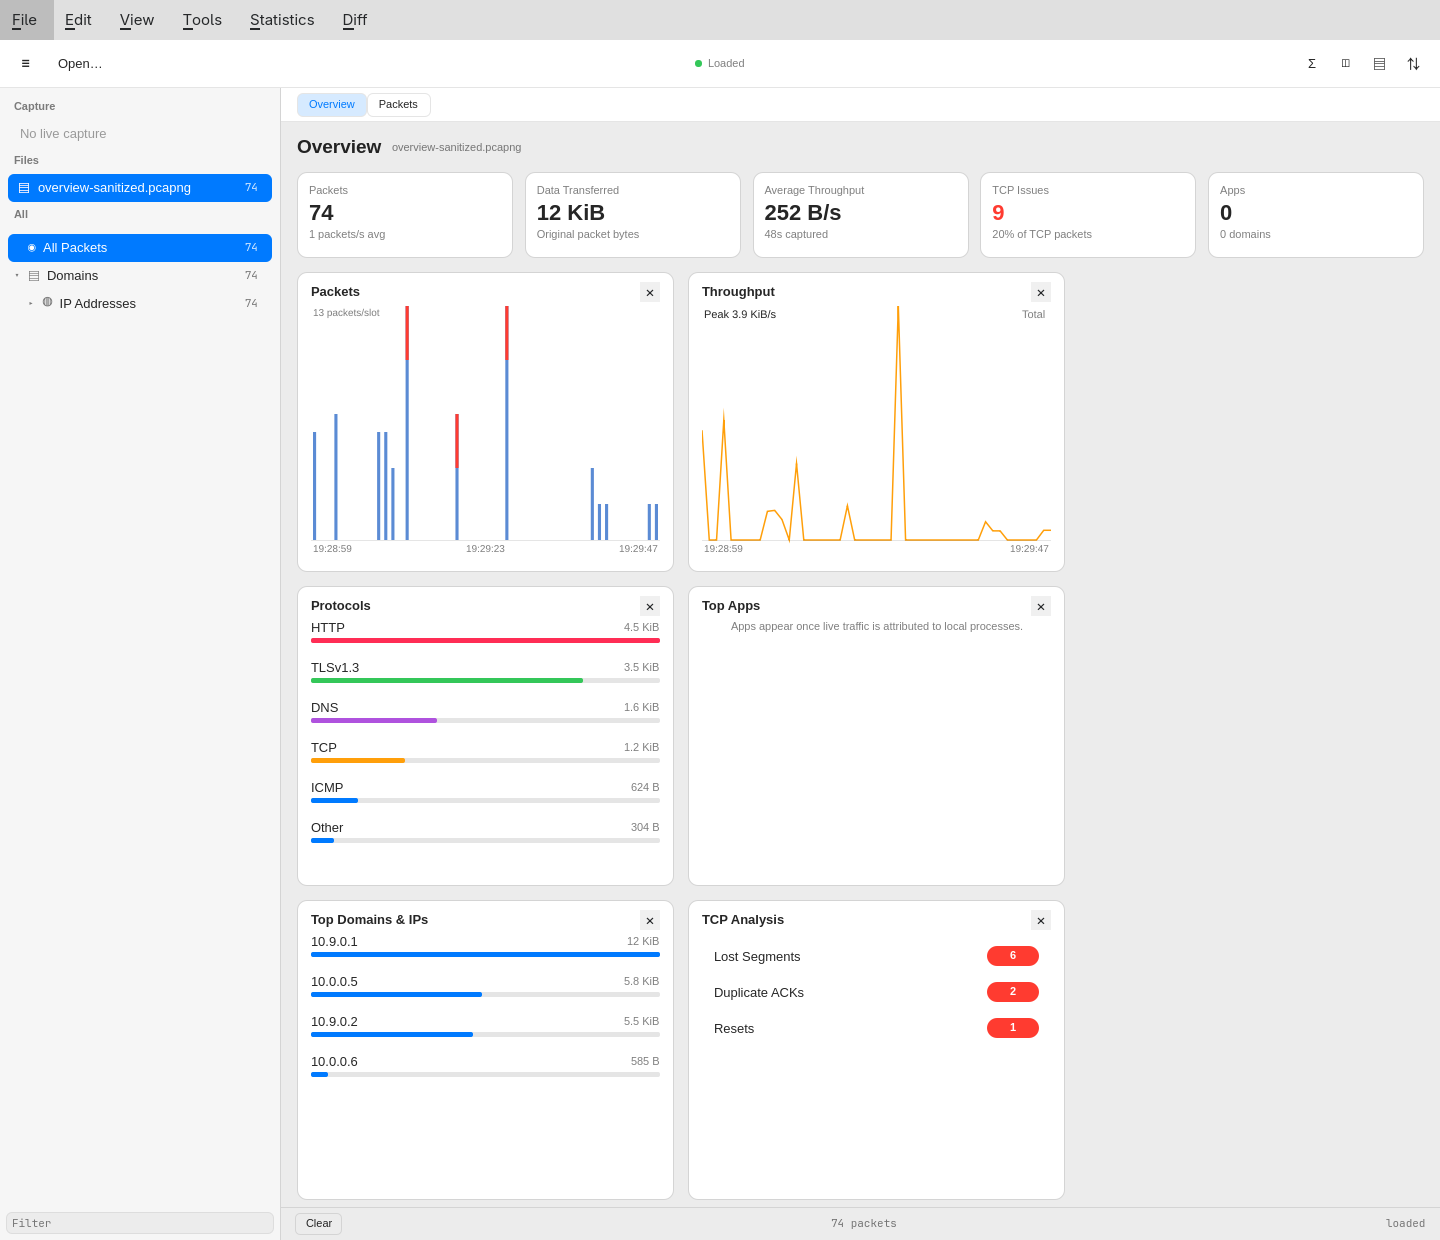
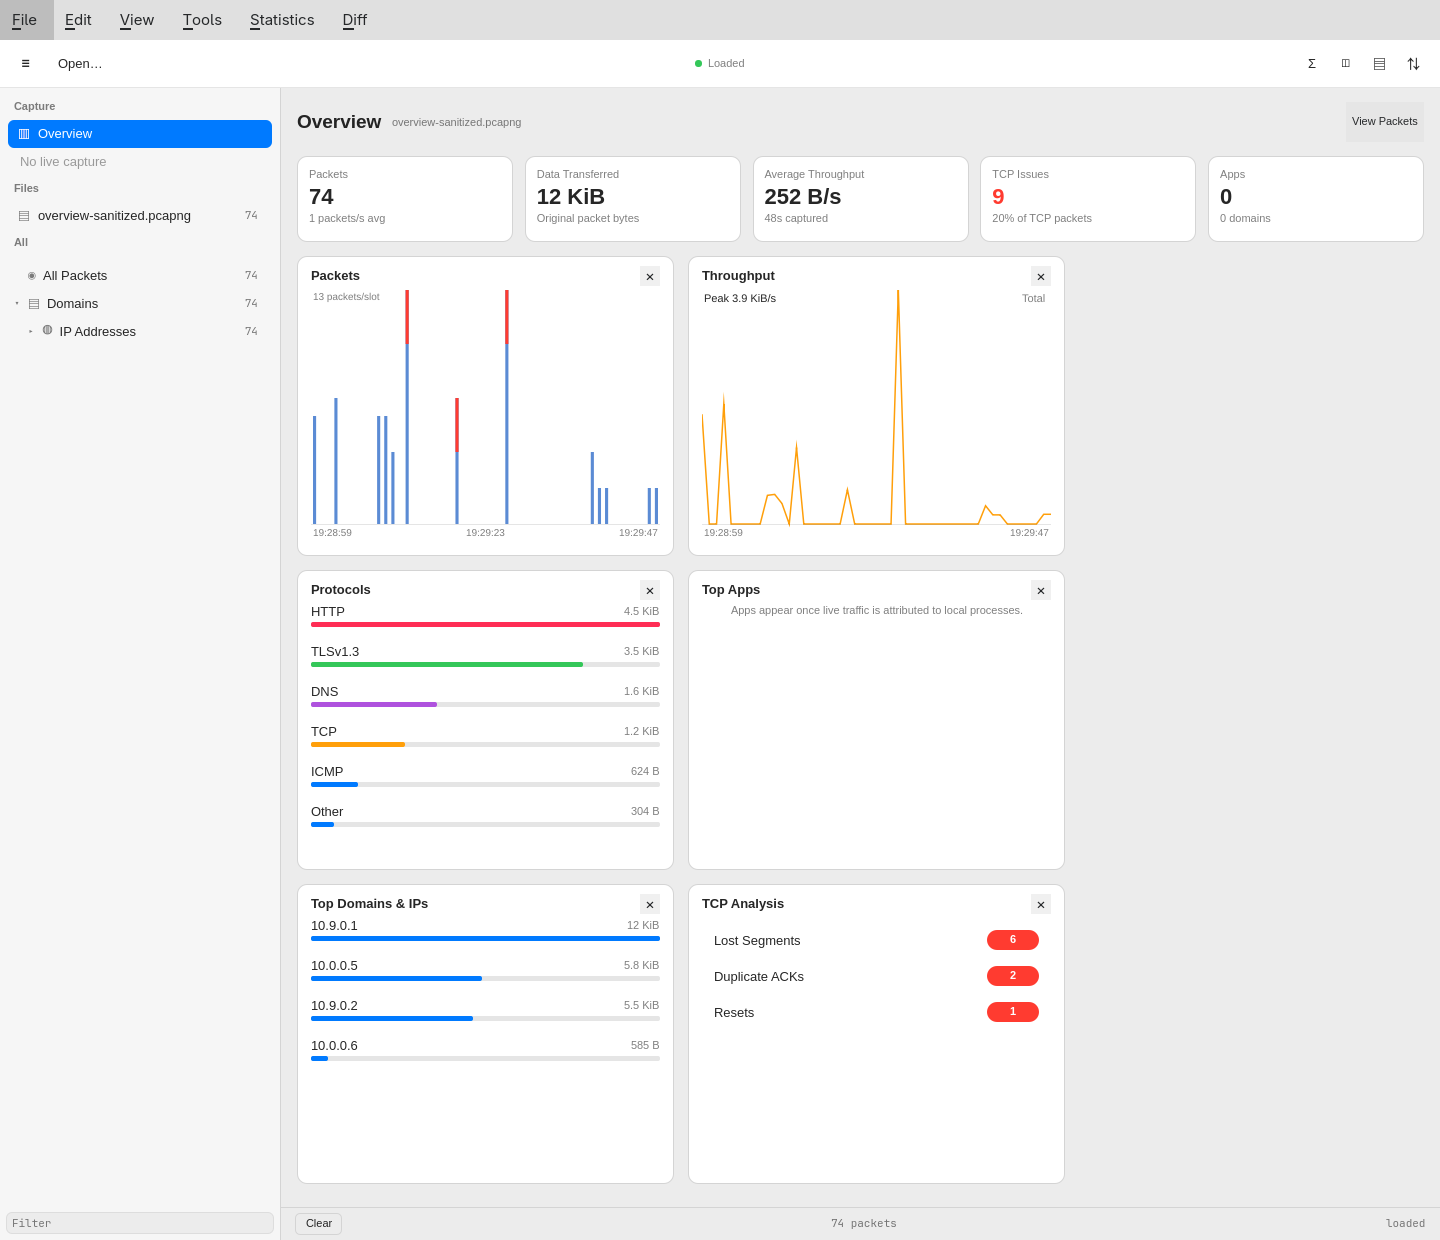
Move the mode switch into the sidebar (upstream Capture group layout)
Upstream keeps a sidebar nav row that carries the workspace mode
(PacketSourceListService 'Capture' group -> Overview row), not a segmented
control in the filter bar. Port accordingly:

- Sidebar: Capture group now leads with an Overview row; selecting it swaps
  to the dashboard, selecting any packet source row or source-tree row hands
  control back to the packet table. One highlight at a time, like upstream
  syncSelection().
- QuickFilterBar: segmented Overview|Packets removed; the bar (chips +
  display filter) only shows in packets view.
- Overview header: View Packets button follows upstream
  CaptureOverviewDashboardView actions.

diff --git a/app/qml/Sidebar.qml b/app/qml/Sidebar.qml
@@ -11,6 +11,12 @@ Rectangle {
 
     required property SessionController session
 
+    // Workspace mode (upstream NetworkInspectorWorkspaceMode): the sidebar's
+    // Capture group owns the Overview navigation row, like upstream's sidebar
+    // where the row carries a workspaceMode.
+    property string captureMode: "packets"
+    signal requestMode(string mode)
+
     color: Theme.dark ? "#232323" : "#f6f6f6"
 
     function basename(path) {
@@ -101,6 +107,14 @@ Rectangle {
 
                 GroupHeader { text: "Capture" }
 
+                // Upstream PacketSourceListService.putItem: the Capture group
+                // leads with the Overview row; selecting it swaps the packet
+                // workspace for the dashboard.
+                OverviewRow {
+                    width: treeList.width
+                    selected: root.captureMode === "overview"
+                }
+
                 Repeater {
                     model: root.liveSources
                     delegate: SourceRow {
@@ -146,7 +160,9 @@ Rectangle {
             depth: model.depth
             expanded: model.expanded
             hasChildren: model.hasChildren
-            selected: model.selected
+            // One highlight at a time (upstream syncSelection()): the
+            // dashboard's nav row owns the selection while it is visible.
+            selected: model.selected && root.captureMode === "packets"
         }
 
         footer: Item {
@@ -287,7 +303,14 @@ Rectangle {
             anchors.fill: parent
             hoverEnabled: true
             acceptedButtons: Qt.LeftButton
-            onClicked: root.session.selectTreeFilter(row.nodeId)
+            // Source-tree rows widen the packet scope; the dashboard hands
+            // control back to the packet workspace (upstream source-list
+            // selection forces workspaceMode .packets).
+            onClicked: {
+                if (root.captureMode === "overview")
+                    root.requestMode("packets")
+                root.session.selectTreeFilter(row.nodeId)
+            }
         }
 
         Item {
@@ -351,6 +374,59 @@ Rectangle {
         }
     }
 
+    // Sidebar navigation row for a workspace mode (upstream rows that carry
+    // a workspaceMode instead of a packet selection).
+    component OverviewRow: Item {
+        id: modeRow
+
+        property bool selected
+
+        readonly property bool hovered: mouse.containsMouse
+        height: Theme.sidebarRowHeight
+
+        Rectangle {
+            anchors.fill: parent
+            anchors.leftMargin: 8
+            anchors.rightMargin: 8
+            radius: 6
+            color: modeRow.selected
+                ? Theme.selection
+                : (modeRow.hovered ? Qt.rgba(Theme.label.r, Theme.label.g, Theme.label.b, 0.06)
+                                   : "transparent")
+        }
+
+        MouseArea {
+            id: mouse
+            anchors.fill: parent
+            hoverEnabled: true
+            acceptedButtons: Qt.LeftButton
+            onClicked: root.requestMode("overview")
+        }
+
+        Text {
+            id: glyph
+            anchors.left: parent.left
+            anchors.leftMargin: 18
+            anchors.verticalCenter: parent.verticalCenter
+            text: "▥"
+            font.family: Theme.uiFont
+            font.pixelSize: 12
+            color: modeRow.selected ? "white" : Theme.systemBlue
+        }
+
+        Text {
+            anchors.left: glyph.right
+            anchors.leftMargin: 8
+            anchors.verticalCenter: parent.verticalCenter
+            text: "Overview"
+            textFormat: Text.PlainText
+            elide: Text.ElideRight
+            font.family: Theme.uiFont
+            font.pixelSize: Theme.uiSize
+            color: modeRow.selected ? "white" : Theme.label
+        }
+    }
+
     component SourceRow: Item {
         id: row
 
@@ -359,6 +435,7 @@ Rectangle {
         height: Theme.sidebarRowHeight
 
         readonly property bool selected: root.session.currentSourceID === String(source.source_id)
+            && root.captureMode === "packets"
         readonly property bool isLive: String(source.kind) === "live"
         readonly property string title: isLive
             ? "Live: " + String(source.interface || "Capture")
@@ -417,7 +494,13 @@ Rectangle {
             anchors.fill: parent
             hoverEnabled: true
             acceptedButtons: Qt.LeftButton
-            onClicked: root.session.selectSource(String(row.source.source_id))
+            // Selecting any packet source leaves the dashboard (upstream:
+            // select(_: .interface/.file/…) sets workspaceMode = .packets).
+            onClicked: {
+                if (root.captureMode === "overview")
+                    root.requestMode("packets")
+                root.session.selectSource(String(row.source.source_id))
+            }
         }
 
         Rectangle {

diff --git a/app/qml/QuickFilterBar.qml b/app/qml/QuickFilterBar.qml
@@ -14,10 +14,6 @@ Rectangle {
     implicitHeight: Theme.quickFilterHeight
     color: Theme.contentBackground
 
-    // Workspace mode (upstream NetworkInspectorWorkspaceMode): the segmented
-    // control toggles the Overview dashboard and the packet table.
-    property string workspaceMode: "packets"
-
     function focusDisplayFilter() {
         filterField.forceActiveFocus()
         filterField.selectAll()
@@ -58,56 +54,6 @@ Rectangle {
         anchors.rightMargin: 16
         spacing: 8
 
-        // Segmented mode toggle (upstream workspace mode picker).
-        Row {
-            id: modeToggle
-            Layout.preferredHeight: 24
-            spacing: 0
-
-            Repeater {
-                model: [
-                    { id: "overview", label: "Overview" },
-                    { id: "packets", label: "Packets" },
-                ]
-
-                delegate: Rectangle {
-                    id: modeSegment
-
-                    required property var modelData
-                    property int segmentIndex: index
-
-                    width: segmentLabel.implicitWidth + 24
-                    height: 24
-                    radius: modeSegment.segmentIndex === 0 ? 6 : 0
-                    color: root.workspaceMode === modeSegment.modelData.id
-                        ? Qt.rgba(Theme.accent.r, Theme.accent.g, Theme.accent.b, 0.16)
-                        : (segmentMouse.containsMouse
-                            ? Qt.rgba(Theme.label.r, Theme.label.g, Theme.label.b, 0.06)
-                            : "transparent")
-                    border.width: 1
-                    border.color: Theme.separator
-
-                    Text {
-                        id: segmentLabel
-                        anchors.centerIn: parent
-                        text: modeSegment.modelData.label
-                        font.family: Theme.uiFont
-                        font.pixelSize: Theme.uiSmall
-                        font.weight: Font.Medium
-                        color: root.workspaceMode === modeSegment.modelData.id
-                            ? Theme.accent : Theme.label
-                    }
-
-                    MouseArea {
-                        id: segmentMouse
-                        anchors.fill: parent
-                        hoverEnabled: true
-                        onClicked: root.workspaceMode = modeSegment.modelData.id
-                    }
-                }
-            }
-        }
-
         Flickable {
             Layout.fillWidth: true
             Layout.preferredHeight: parent.height
@@ -115,7 +61,6 @@ Rectangle {
             clip: true
             flickableDirection: Flickable.HorizontalFlick
             boundsBehavior: Flickable.StopAtBounds
-            visible: root.workspaceMode === "packets"
 
             Row {
                 id: chipRow
@@ -171,7 +116,6 @@ Rectangle {
             color: Theme.windowBackground
             border.width: 1
             border.color: filterField.activeFocus ? Theme.accent : Theme.separator
-            visible: root.workspaceMode === "packets"
 
             TextField {
                 id: filterField

diff --git a/app/qml/Main.qml b/app/qml/Main.qml
@@ -579,6 +579,11 @@ ApplicationWindow {
         Sidebar {
             id: sidebar
             session: session
+            captureMode: window.captureMode
+            onRequestMode: (mode) => {
+                if (window.captureMode !== mode)
+                    window.captureMode = mode
+            }
             visible: window.sidebarVisible
             SplitView.preferredWidth: Theme.sidebarDefaultWidth
             SplitView.minimumWidth: Theme.sidebarMinimumWidth
@@ -951,13 +956,10 @@ ApplicationWindow {
                     anchors.top: parent.top
                     anchors.left: parent.left
                     anchors.right: parent.right
-                    height: Theme.quickFilterHeight
+                    width: parent.width
+                    height: window.captureMode === "packets" ? Theme.quickFilterHeight : 0
+                    visible: window.captureMode === "packets"
                     session: controller
-                    workspaceMode: window.captureMode
-                    onWorkspaceModeChanged: {
-                        if (window.captureMode !== workspaceMode)
-                            window.captureMode = workspaceMode
-                    }
                 }
 
                 Rectangle {
@@ -1049,6 +1051,10 @@ ApplicationWindow {
                         id: overviewPane
                         anchors.fill: parent
                         session: controller
+                        onRequestMode: (mode) => {
+                            if (window.captureMode !== mode)
+                                window.captureMode = mode
+                        }
                         visible: window.captureMode === "overview"
                     }
 

diff --git a/app/qml/Overview.qml b/app/qml/Overview.qml
@@ -16,6 +16,10 @@ Rectangle {
 
     required property SessionController session
 
+    // The dashboard hands control back to the packet workspace (upstream:
+    // showPacketsFromOverview clears the scope filters and selects All Packets).
+    signal requestMode(string mode)
+
     color: Theme.windowBackground
 
     readonly property var overview: session ? session.overview : ({})
@@ -152,6 +156,15 @@ Rectangle {
                         var name = String(raw).split("/").pop()
                         return status.kind === "offline" ? name : "Live on " + name
                     }
+                }
+
+                // Upstream CaptureOverviewDashboardView header actions: the
+                // dashboard hands control back to the packet table.
+                ToolButton {
+                    text: "View Packets"
+                    font.family: Theme.uiFont
+                    font.pixelSize: Theme.uiSmall
+                    onClicked: overviewPage.requestMode("packets")
                 }
             }
 
